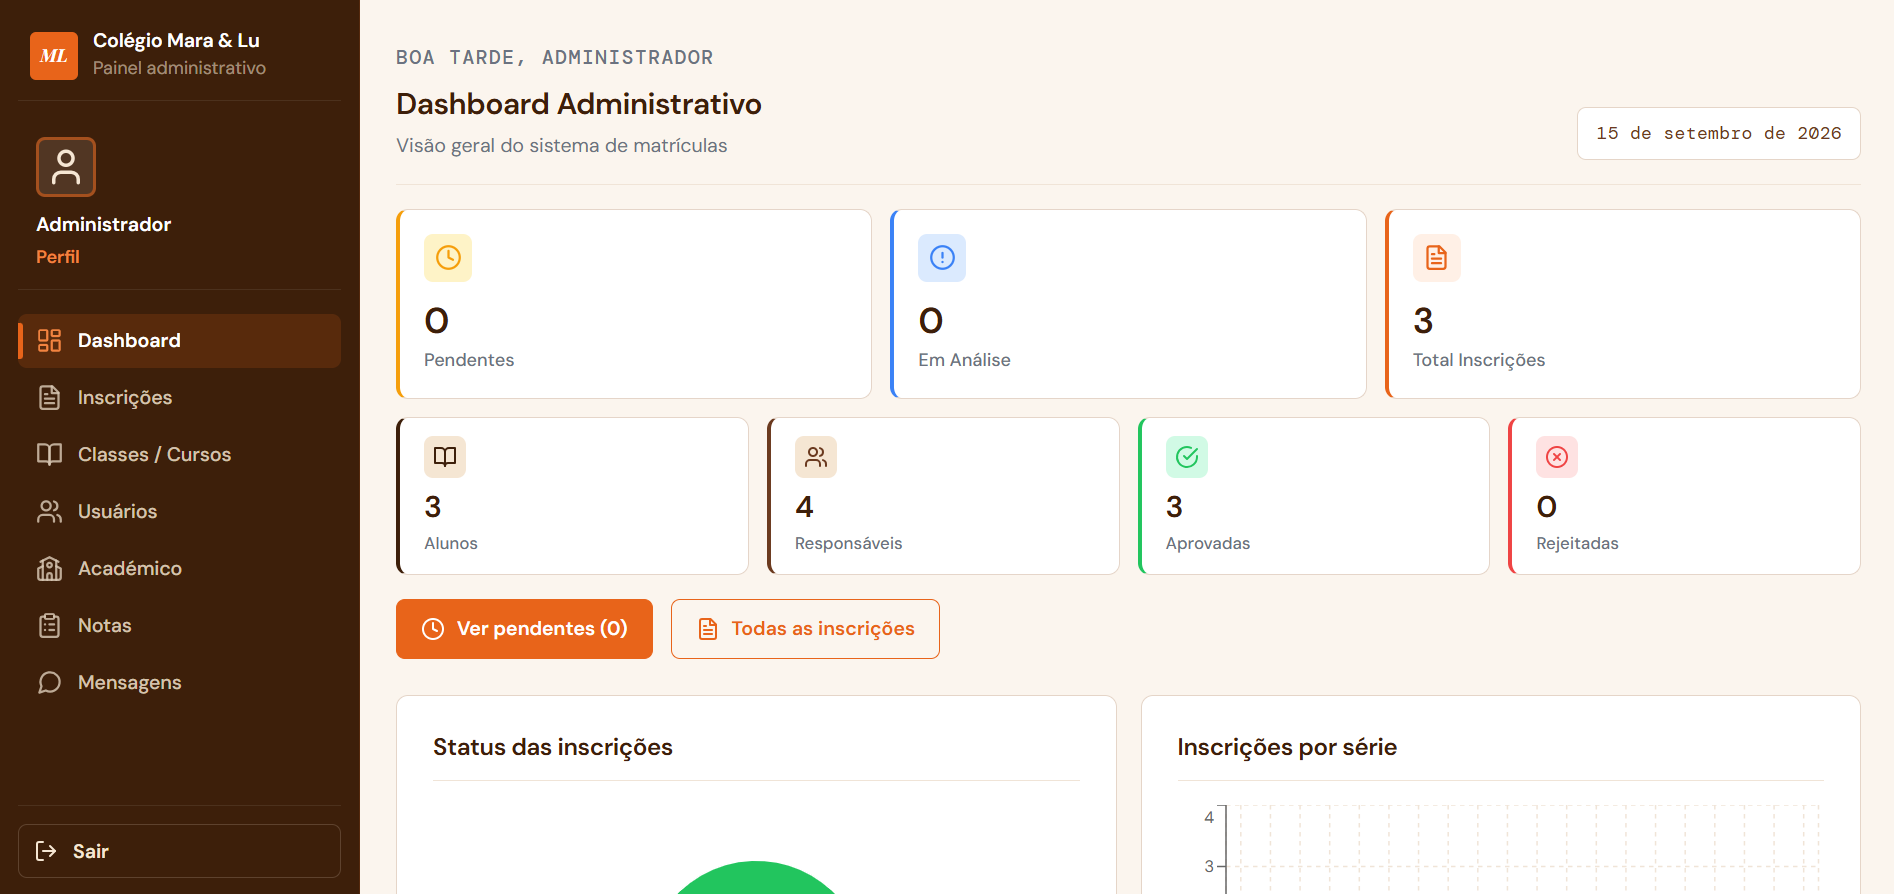
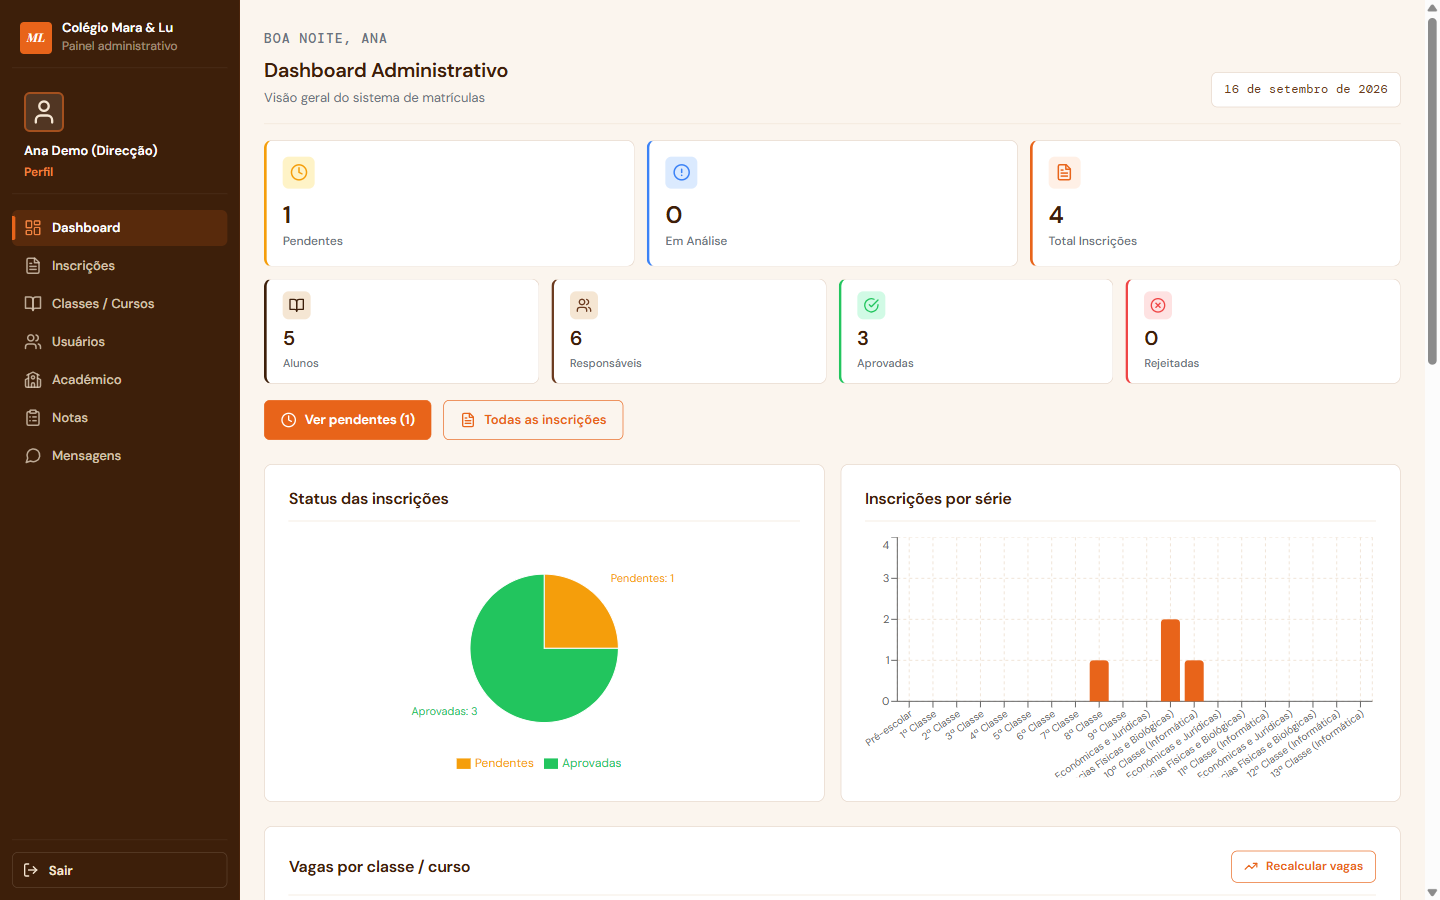
docs: show the demo from each role, and how to sign in as any of them
The README had screenshots but no way in, so a reader could look and not touch.
Now the four demo accounts are published with what each one is worth opening for,
and the captures are grouped by role against that same data: the direcção's KPIs
and the application awaiting review, the professor's grade coverage per subject,
and the student's grade sheet.

Also documents restoring the demo with npm run seed:demo, since the credentials
are public and the data will drift.

diff --git a/README.md b/README.md
@@ -57,20 +57,29 @@ pending; it never touches other data.
 
 ## Screenshots
 
-### Landing
+The same demo data, seen from three roles.
+
+**Direcção** — enrolment KPIs, status split, and vacancies per class and course.
+
+![Admin dashboard: KPIs, the pending/approved split, and the vacancy table](./screenshots/03-dashboard.png)
+
+An application waiting for review, with the guardian's contact beside the applicant.
+
+![Enrolment management filtered to pending applications](./screenshots/06-inscricoes.png)
+
+**Professor** — their classes with, per subject, who has grades, who does not, and how many absences.
+
+![Professor panel: four subjects, grade coverage and absences per subject](./screenshots/07-professor.png)
+
+**Aluno** — the class, the timetable, and a grade sheet with trimester and annual averages.
+
+![Student portal: enrolment details, subjects, and the grade sheet](./screenshots/05-portal.png)
+
+And the public side: the landing page and the enrolment form that starts the whole cycle.
+
 ![Landing page — Colégio Mara & Lu](./screenshots/01-landing.png)
 
-### Login
-![Institutional login](./screenshots/02-login.png)
-
-### Admin dashboard
-![Admin dashboard with KPIs and charts](./screenshots/03-dashboard.png)
-
-### Public enrollment
 ![Public enrollment form](./screenshots/04-inscricao.png)
-
-### Student portal
-![Student academic portal](./screenshots/05-portal.png)
 
 More capture notes: [`screenshots/README.md`](./screenshots/README.md)
 

diff --git a/screenshots/README.md b/screenshots/README.md
@@ -2,16 +2,20 @@
 
 Portfolio captures for the Colégio Mara & Lu flagship (browser zoom 100%).
 
-| File | Screen |
-|------|--------|
-| `01-landing.png` | Public landing |
-| `02-login.png` | Login |
-| `03-dashboard.png` | Admin dashboard |
-| `04-inscricao.png` | Public enrollment |
-| `05-portal.png` | Student portal |
+| File | Screen | Role |
+|------|--------|------|
+| `01-landing.png` | Public landing | — |
+| `02-login.png` | Login | — |
+| `03-dashboard.png` | Dashboard: KPIs, status split, vacancies | Direcção |
+| `04-inscricao.png` | Public enrollment form | — |
+| `05-portal.png` | Portal: class, subjects, grade sheet | Aluno |
+| `06-inscricoes.png` | Applications filtered to pending | Direcção |
+| `07-professor.png` | Panel: subjects, grade coverage, absences | Professor |
 
 ## Guidelines
 
-- Prefer anonymized / test data
+- Capture the demo accounts (`backend/scripts/seed-demo.js`), never a real student
 - Do not publish secrets, real minor PII, or `.env` values
 - Keep filenames stable — they are linked from the root README
+- Viewport 1440×900 for staff screens; full page for the portal, whose value is the
+  grade sheet further down
